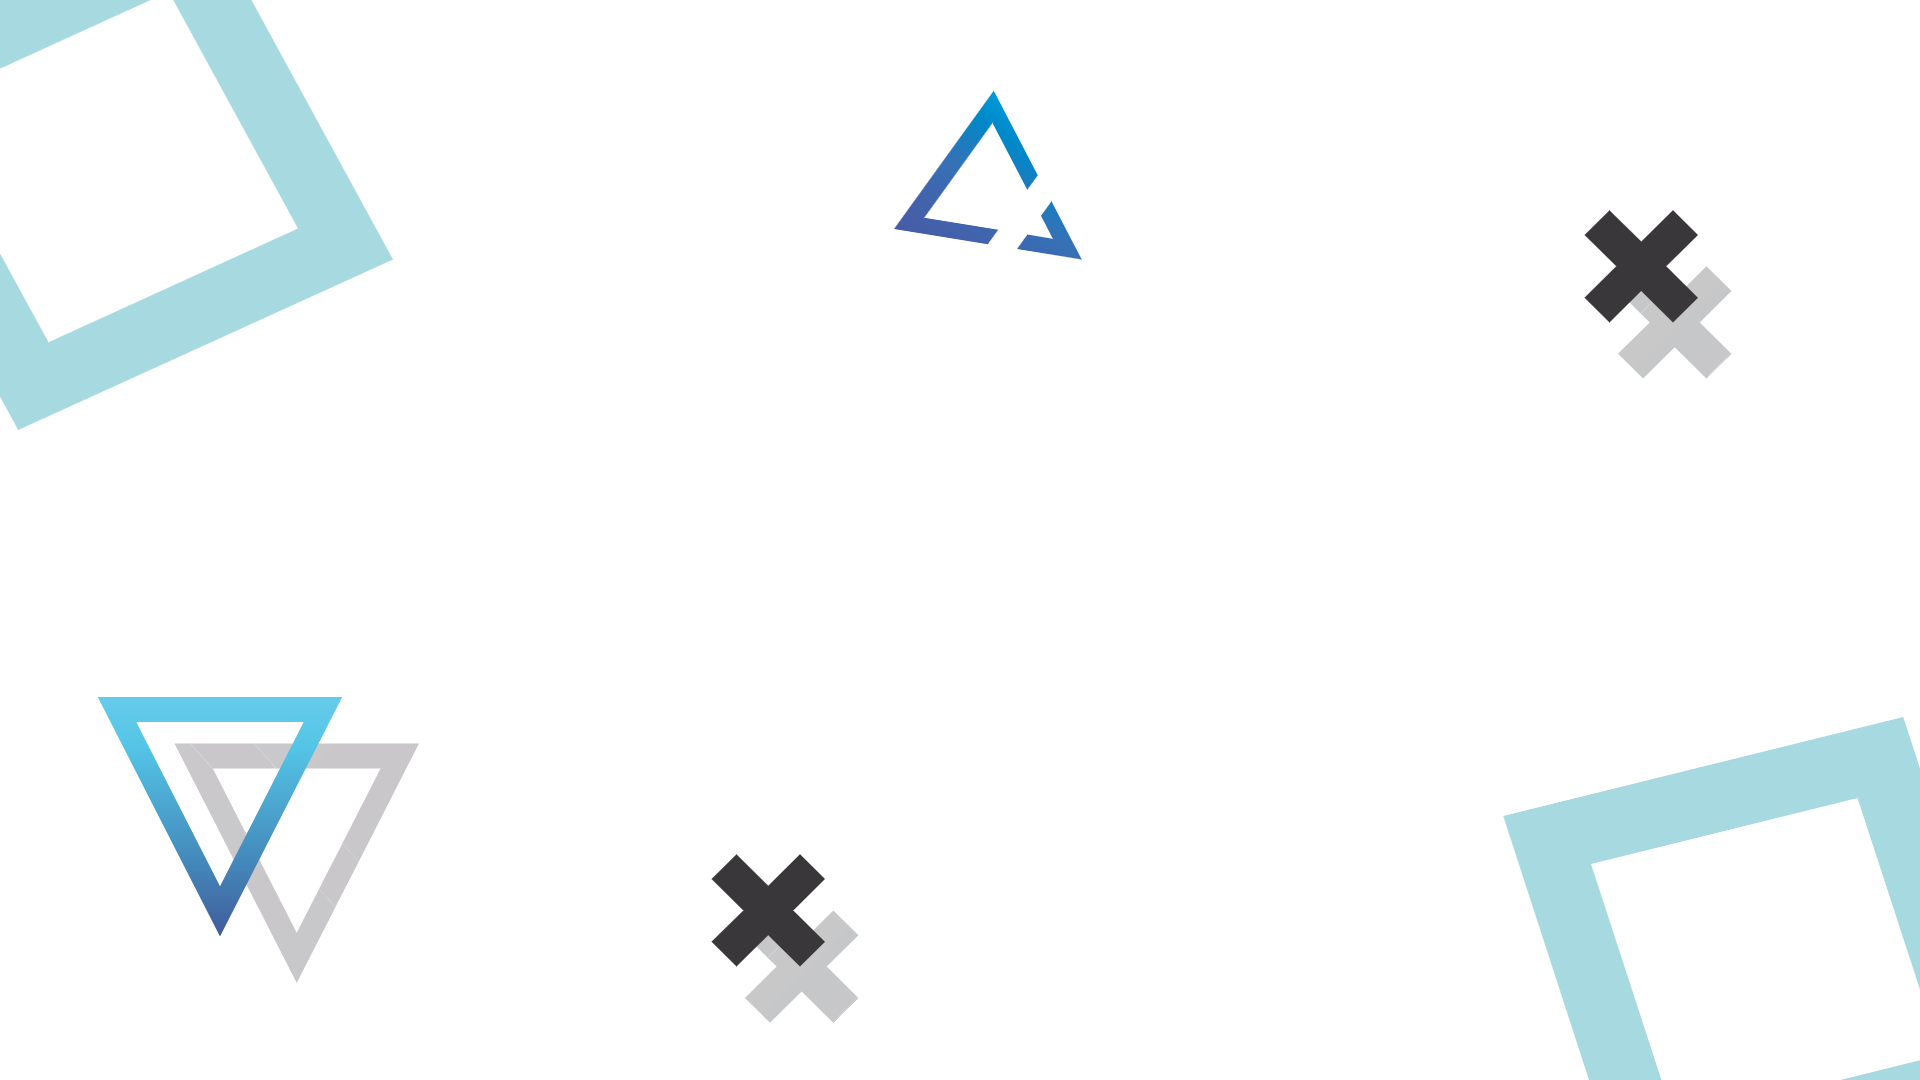
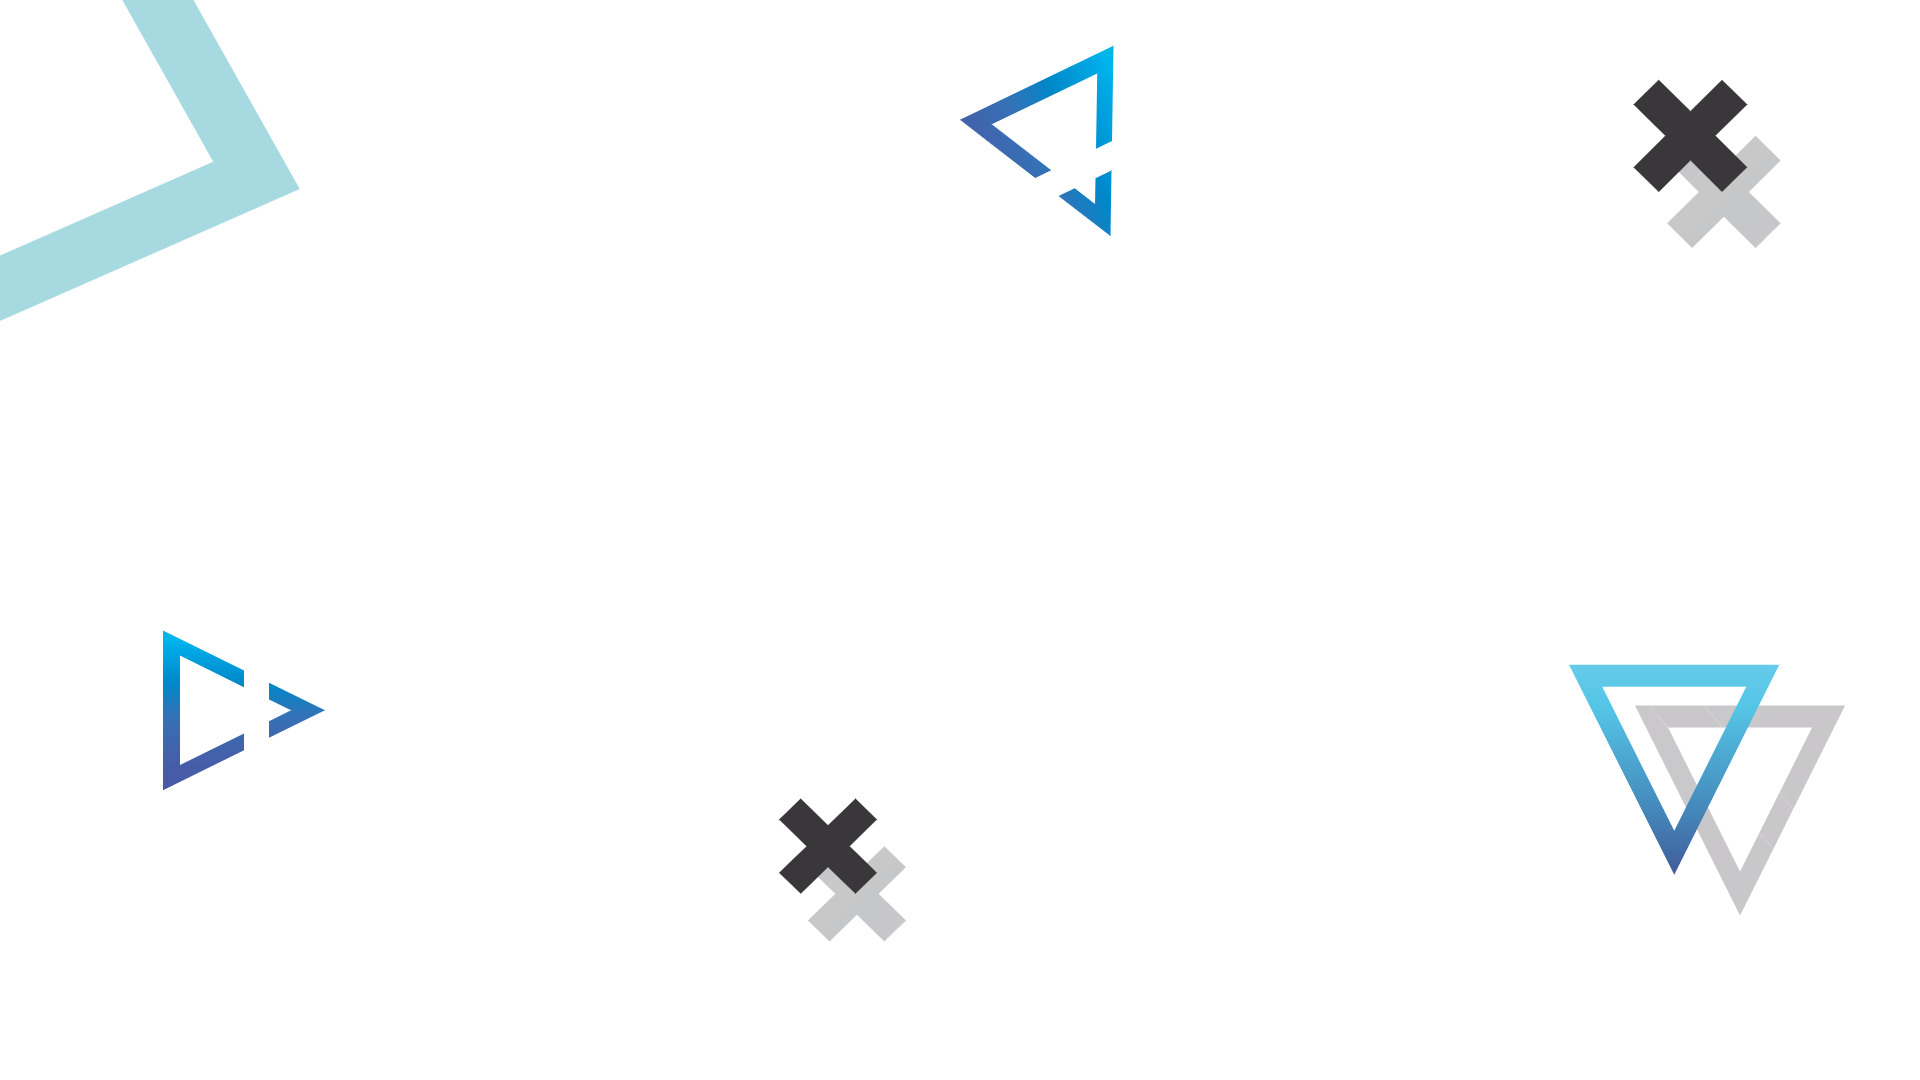
fix background

diff --git a/public/css/home.css b/public/css/home.css
@@ -3,7 +3,7 @@ html, body {
     font-family: 'Nunito', sans-serif;
     /*background-color: #fff;*/
     background-position: center;
-    background: url("../images/backgraund_home.png");
+    background: url("../images/backgraund_home_3.png");
     background-repeat: no-repeat;
     background-size: cover;
     background-attachment: fixed;
